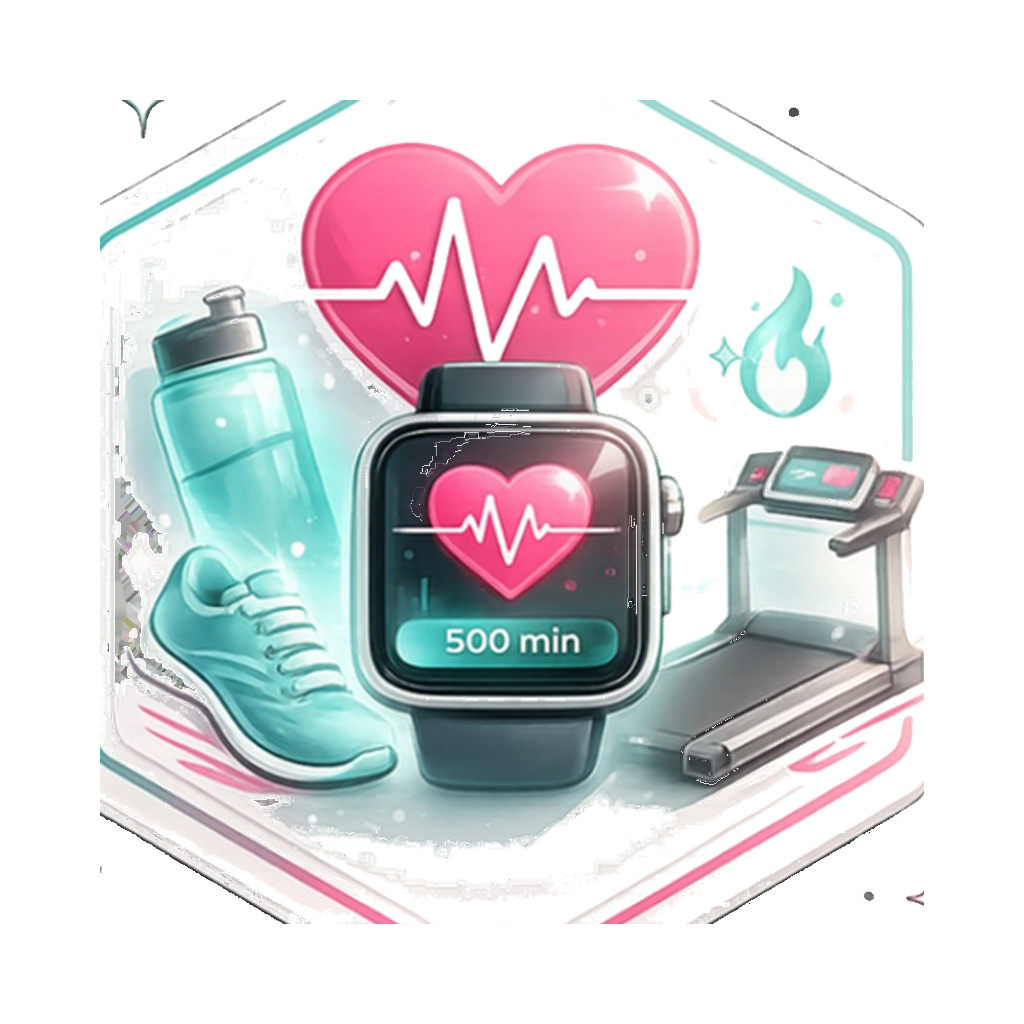
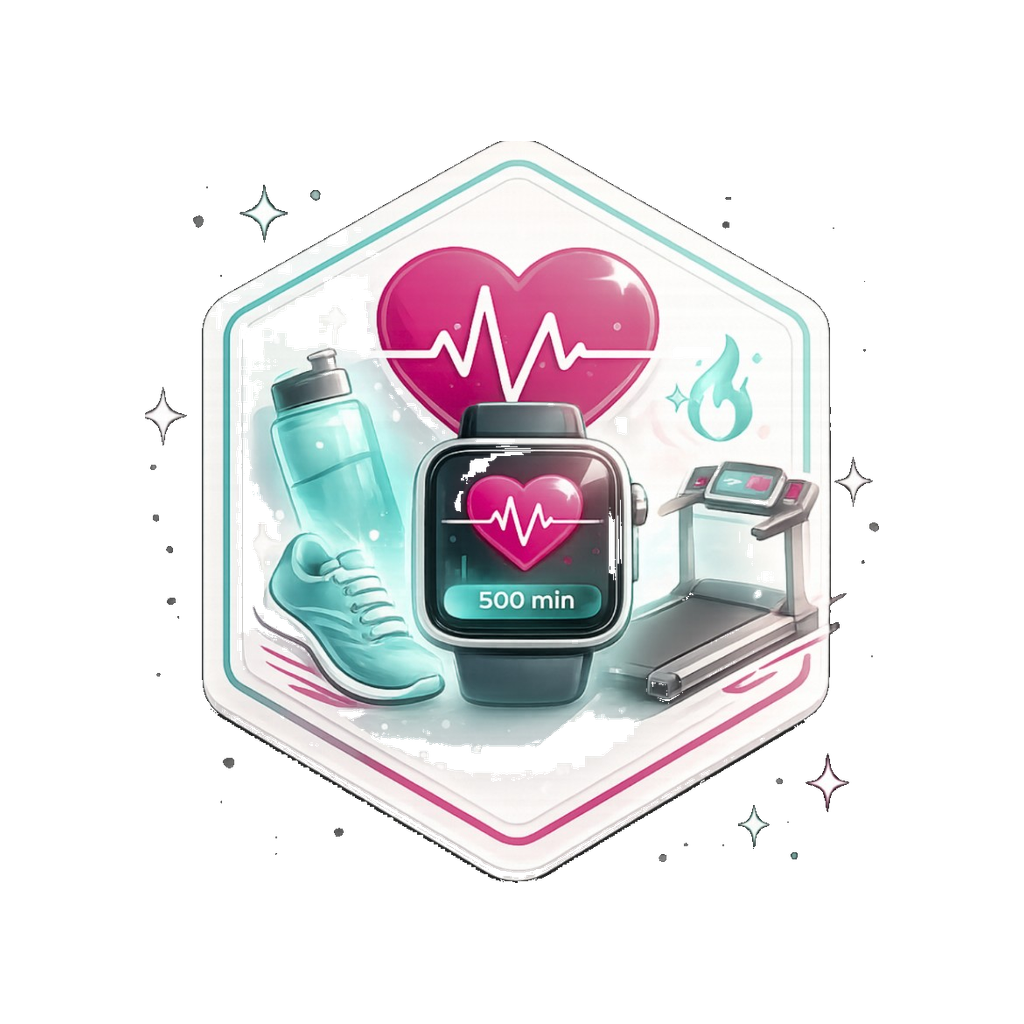
Update Pulsmaskin badge artwork with transparent background
Replace 33-pulsmaskin.png and bump badge cache version.

diff --git a/src/app/badgeAssets.ts b/src/app/badgeAssets.ts
@@ -1,5 +1,5 @@
 /** Felles badge-bilder (PNG 1024×1024, normalisert visuell størrelse). */
-export const BADGE_ASSET_VERSION = "19";
+export const BADGE_ASSET_VERSION = "20";
 
 export function badgeAssetUrl(path: string): string {
   const base = path.split("?")[0] || path;
